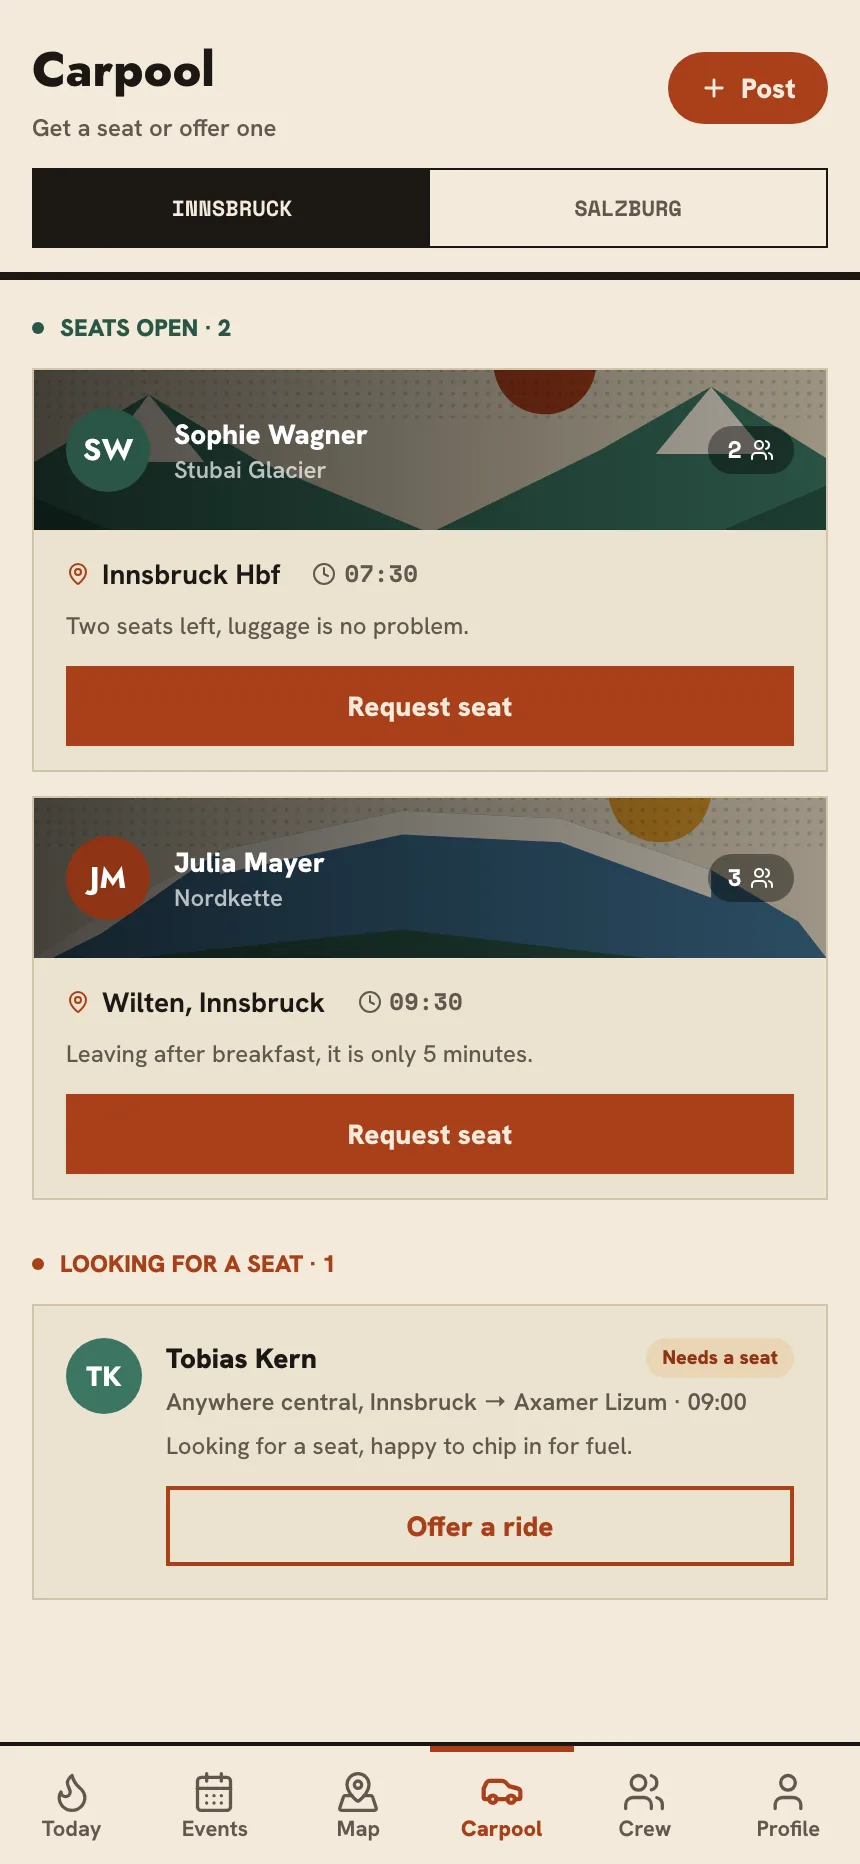
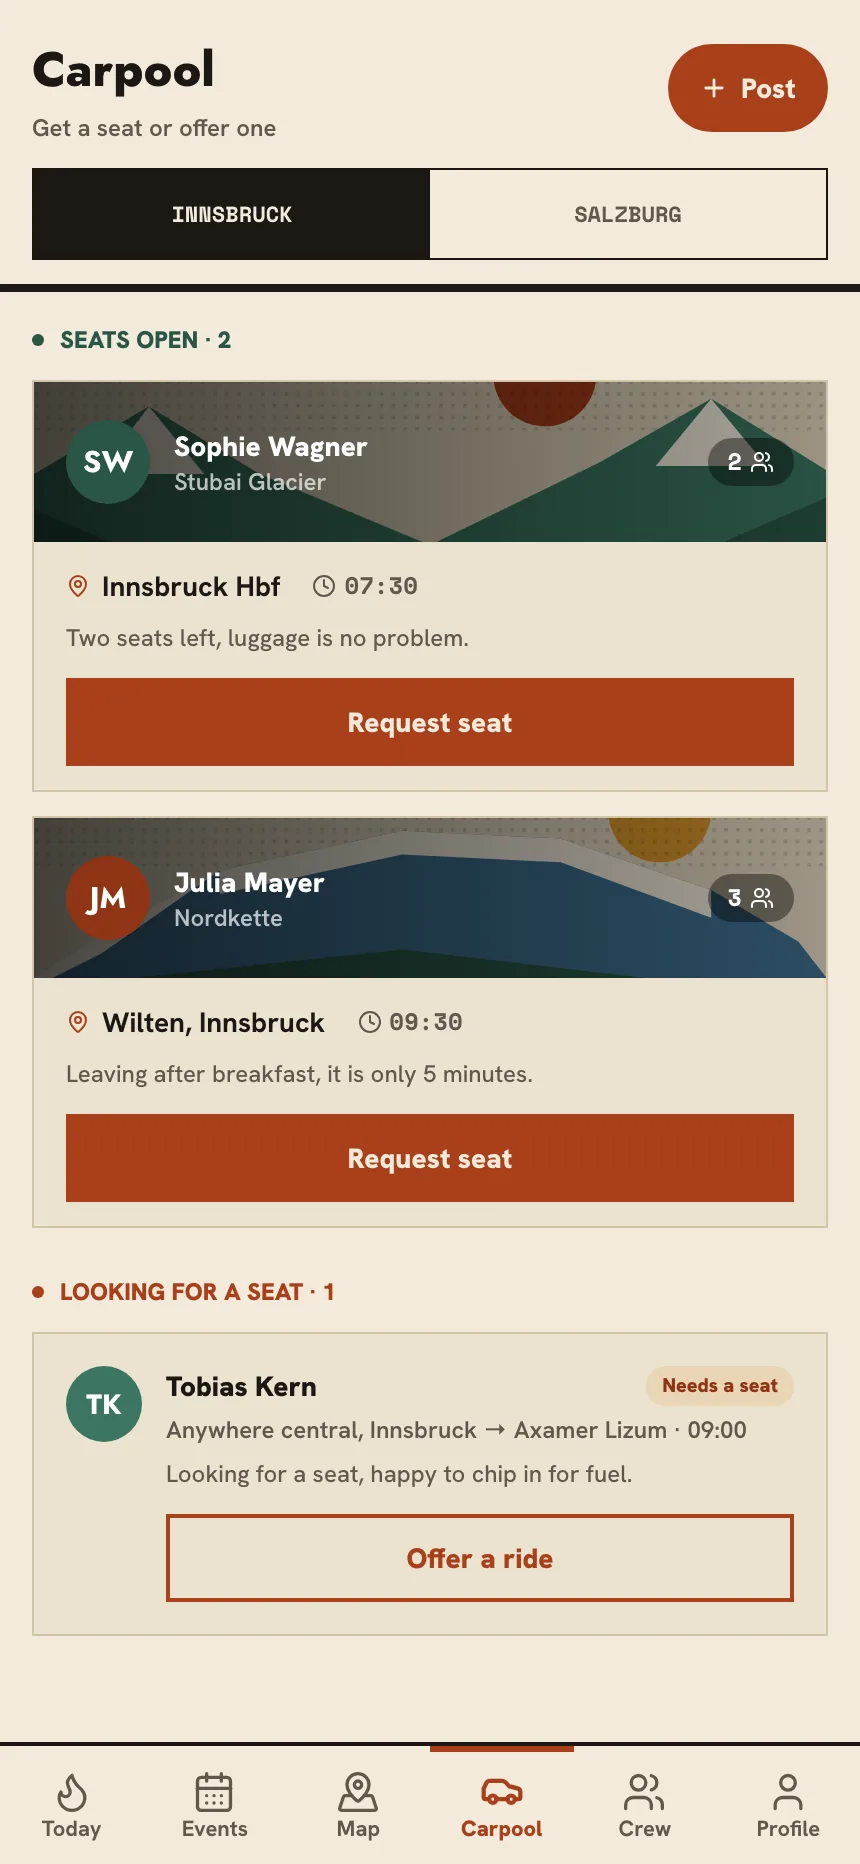
fix: close the accessibility and touch findings from a UX audit
Audited all ten screens at 375x667 and in landscape against the
UI/UX rule set, checking touch targets, accessible names, heading
order, label association and horizontal overflow programmatically
rather than by eye.

Critical

The Input component looked 52px tall but only the inner 24px
focused it. The frame carried the height while the input kept its
line box, so tapping the visual top or bottom edge of an email or
password field did nothing. This is the sign-in and sign-up form,
the most consequential form in the app. Fixed with self-stretch.

Ten controls had no accessible name at all: the icon-only message
buttons in the crew list read as "button" to a screen reader.
They now say "Message <name>".

The events list jumped h1 to h3, hiding the list structure from
anyone navigating by headings. Card titles are h2 now.

Touch targets, 124 findings down to 3

Segmented control 38 to 44, crew tabs 30 to 44, feed join and post
buttons 35 to 44, carpool request and offer buttons 40 to 44,
profile city toggle 35 to 44, the demo banner back link from 27x17
to 44 high, and the sign-in/register switch links given a tap area
without breaking the sentence they sit in.

Map markers had a 36px floor, now 44px. Size still encodes the
number of riders, it just starts above the minimum instead of below.

The three that remain are the Leaflet, OSM and CARTO attribution
links. They are legally required, conventionally small, and not app
controls. Left alone deliberately.

Regression cover
[…]

diff --git a/app/(app)/carpool/page.tsx b/app/(app)/carpool/page.tsx
@@ -97,7 +97,7 @@ export default function CarpoolPage() {
           </div>
           <button
             onClick={() => setShowOfferModal(true)}
-            className="flex items-center gap-1.5 text-sm font-black px-4 py-2 rounded-full active:scale-95 transition-transform"
+            className="flex min-h-11 items-center gap-1.5 text-sm font-black px-4 rounded-full active:scale-95 transition-transform"
             style={{ background: BRAND, color: D }}
           >
             <Icon name="plus" size={14} strokeWidth={2.4} />
@@ -170,7 +170,7 @@ export default function CarpoolPage() {
                       <button
                         onClick={() => toggle(post.id)}
                         disabled={post.availableSeats === 0 && !isReq}
-                        className="w-full py-2.5 rounded-none text-sm font-black transition-transform duration-100 active:translate-x-[2px] active:translate-y-[2px]"
+                        className="w-full min-h-11 rounded-none text-sm font-black transition-transform duration-100 active:translate-x-[2px] active:translate-y-[2px]"
                         style={isReq
                           ? { background: "var(--accent-primary-subtle)", color: BRAND }
                           : post.availableSeats === 0
@@ -224,7 +224,7 @@ export default function CarpoolPage() {
                         {post.note && <p className="text-xs mt-1.5 font-medium" style={{ color: MUTED }}>{post.note}</p>}
                         <button
                           onClick={() => toggle(post.id + "_offer")}
-                          className="mt-3 w-full py-2 rounded-none text-sm font-black transition-transform duration-100 active:translate-x-[2px] active:translate-y-[2px]"
+                          className="mt-3 w-full min-h-11 rounded-none text-sm font-black transition-transform duration-100 active:translate-x-[2px] active:translate-y-[2px]"
                           style={isOffered
                             ? { background: "var(--accent-primary-subtle)", color: BRAND }
                             : { border: `2px solid ${BRAND}`, color: BRAND, background: "transparent" }

diff --git a/features/rides/EventsScreen.test.tsx b/features/rides/EventsScreen.test.tsx
@@ -41,7 +41,7 @@ describe("EventsScreen", () => {
     render(<EventsScreen />);
 
     const titles = screen
-      .getAllByRole("heading", { level: 3 })
+      .getAllByRole("heading", { level: 2 })
       .map((heading) => heading.textContent);
 
     // Ladies Powder Morning is full (12/12) and must not sit at the top.
@@ -126,5 +126,38 @@ describe("EventsScreen", () => {
       screen.queryByText(event.title!),
     );
     expect(rendered.every((event) => event.visibility === "public")).toBe(true);
+  });
+});
+
+describe("EventsScreen accessibility", () => {
+  /* The card titles used to be h3 under an h1, skipping a level.
+     Screen readers navigate by headings, so the jump hid the list
+     structure. */
+  it("keeps the heading levels sequential", () => {
+    render(<EventsScreen />);
+
+    const levels = screen
+      .getAllByRole("heading")
+      .map((h) => Number(h.tagName[1]));
+
+    expect(levels[0]).toBe(1);
+
+    const jumps = levels.flatMap((level, i) => {
+      const previous = levels[i - 1];
+      return previous !== undefined && level - previous > 1
+        ? [`h${previous} -> h${level}`]
+        : [];
+    });
+    expect(jumps).toEqual([]);
+  });
+
+  it("gives every control an accessible name", () => {
+    render(<EventsScreen />);
+
+    const unnamed = screen
+      .getAllByRole("button")
+      .filter((b) => !(b.getAttribute("aria-label") || b.textContent || "").trim());
+
+    expect(unnamed).toEqual([]);
   });
 });

diff --git a/app/(app)/crew/page.tsx b/app/(app)/crew/page.tsx
@@ -58,7 +58,7 @@ export default function CrewPage() {
             const isActive = tab === t;
             return (
               <button key={t} onClick={() => setTab(t)}
-                className="flex-1 pb-2.5 text-xs font-black transition-colors duration-150 relative pt-1"
+                className="flex-1 min-h-11 pb-2.5 text-xs font-black transition-colors duration-150 relative pt-1"
                 style={{ color: isActive ? BRAND : MUTED }}
               >
                 {TAB_LABELS[t]}
@@ -103,7 +103,8 @@ export default function CrewPage() {
                 </div>
                 <button
                   onClick={() => { setSelectedConvUserId(friend.id); setTab("chats"); }}
-                  className="w-9 h-9 rounded-full flex items-center justify-center active:scale-90 transition-transform flex-shrink-0"
+                  aria-label={`Message ${friend.name}`}
+                  className="h-11 w-11 rounded-full flex items-center justify-center active:scale-90 transition-transform flex-shrink-0"
                   style={{ background: "var(--accent-primary-subtle)" }}
                 >
                   <Icon name="message-circle" size={15} color={BRAND} strokeWidth={1.8} />

diff --git a/components/ui/Input.tsx b/components/ui/Input.tsx
@@ -61,7 +61,10 @@ export default function Input({
           onBlur={() => setFocused(false)}
           aria-invalid={error ? true : undefined}
           aria-describedby={helper || error ? messageId : undefined}
-          className={`min-w-0 flex-1 border-none bg-transparent outline-none ${className ?? ""}`}
+          className={`min-w-0 flex-1 self-stretch border-none bg-transparent outline-none ${className ?? ""}`}
+          /* self-stretch is load-bearing: without it the input is only as
+             tall as its line box (24px) inside a 52px frame, so tapping the
+             visual top or bottom edge of the field does nothing. */
           style={{ font: "var(--text-body)", color: "var(--ink-0)" }}
           {...rest}
         />

diff --git a/components/feed/RideCard.tsx b/components/feed/RideCard.tsx
@@ -110,7 +110,7 @@ export default function RideCard({ post, author, joinedUsers, isJoined, onClick,
             <button
               onClick={(e) => { e.stopPropagation(); onJoin?.(e); }}
               disabled={isFull && !isJoined}
-              className="text-mono-label px-3.5 py-2 transition-transform active:translate-x-[1px] active:translate-y-[1px]"
+              className="text-mono-label min-h-11 px-3.5 transition-transform active:translate-x-[1px] active:translate-y-[1px]"
               style={
                 isJoined
                   ? { background: "var(--paper-2)", color: "var(--ink-1)", border: "1px solid var(--ink-0)" }

diff --git a/app/(app)/feed/page.tsx b/app/(app)/feed/page.tsx
@@ -63,7 +63,7 @@ export default function FeedPage() {
           </div>
           <button
             onClick={() => setShowPostModal(true)}
-            className="card-tap text-mono-label flex items-center gap-1.5 px-3 py-2"
+            className="card-tap text-mono-label flex min-h-11 items-center gap-1.5 px-3"
             style={{ background: "var(--rust)", color: "var(--paper-0)", border: "var(--rule-thin)", boxShadow: "var(--shadow-print)" }}
           >
             <Icon name="plus" size={13} strokeWidth={2.6} />

diff --git a/features/crew/PeopleScreen.tsx b/features/crew/PeopleScreen.tsx
@@ -120,7 +120,7 @@ function PeopleSection({
                 <button
                   onClick={() => onRequest(user.id)}
                   aria-label={sent ? `Withdraw request to ${user.name}` : `Request ${user.name}`}
-                  className="text-mono-label card-tap px-3 py-2"
+                  className="text-mono-label card-tap min-h-11 px-3"
                   style={
                     sent
                       ? { background: PAPER_1, color: INK_1, border: "var(--rule-thin)" }

diff --git a/features/rides/EventsScreen.tsx b/features/rides/EventsScreen.tsx
@@ -256,9 +256,9 @@ function EventCard({
 
       <div className="px-4 pt-3 pb-4">
         <div className="flex items-start justify-between gap-3">
-          <h3 className="text-[1.0625rem] font-semibold leading-snug" style={{ color: INK }}>
+          <h2 className="text-[1.0625rem] font-semibold leading-snug" style={{ color: INK }}>
             {post.title ?? post.resort}
-          </h3>
+          </h2>
           <Tag level={post.abilityLevel} />
         </div>
 

diff --git a/features/auth/AuthForm.tsx b/features/auth/AuthForm.tsx
@@ -155,7 +155,7 @@ export default function AuthForm({ mode }: AuthFormProps) {
         {isSignup ? "Already have one?" : "No account yet?"}{" "}
         <Link
           href={isSignup ? "/login" : "/signup"}
-          className="font-semibold underline"
+          className="-my-2 inline-flex min-h-11 items-center px-1 font-semibold underline"
           style={{ color: "var(--rust)" }}
         >
           {isSignup ? "Sign in" : "Register"}

diff --git a/components/LeafletMap.tsx b/components/LeafletMap.tsx
@@ -118,7 +118,7 @@ export default function LeafletMap({
       if (!coordinates) return [];
 
       const isHot = resort.name === hotResort?.name;
-      const size = isHot ? 50 : Math.max(36, 32 + resort.ridersNow * 0.3);
+      const size = isHot ? 56 : Math.max(44, 40 + resort.ridersNow * 0.3);
       const icon = leaflet.divIcon({
         className: "",
         html: createMarkerContent(resort, isHot, size),

diff --git a/components/ui/SegmentedControl.tsx b/components/ui/SegmentedControl.tsx
@@ -57,7 +57,7 @@ export default function SegmentedControl<T extends string>({
             aria-pressed={active}
             className="relative z-10 flex-1 flex items-center justify-center transition-colors"
             style={{
-              height: 38,
+              height: 44,
               font: "700 11px var(--font-mono-stack)",
               letterSpacing: 0,
               textTransform: "uppercase",

diff --git a/app/demo/layout.tsx b/app/demo/layout.tsx
@@ -25,7 +25,7 @@ export default function DemoLayout({ children }: { children: React.ReactNode }) 
         }}
       >
         <span>Demo · sample data · nothing is saved</span>
-        <Link href="/" className="underline whitespace-nowrap">
+        <Link href="/" className="-my-2 flex min-h-11 items-center whitespace-nowrap px-3 underline">
           Back
         </Link>
       </div>
